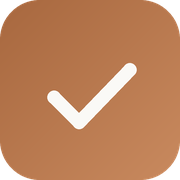
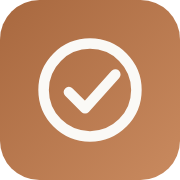
Renombrar la app a Tudu y actualizar el ícono (Check Ring)
- Nuevo ícono "Check Ring": anillo blanco + check dentro de un cuadrado
  con degradé terracota, reemplazando el check simple anterior
- Regenerados icons/icon-512.png, icon-192.png, icon-180.png e
  icon-maskable.png desde el nuevo icons/icon.svg
- Corregido el ícono nativo de Android, que nunca había sido
  personalizado y seguía siendo la plantilla genérica de Capacitor:
  ahora el adaptive icon (fondo con degradé + foreground por densidad)
  y los ic_launcher/ic_launcher_round legacy usan el mismo diseño
  Check Ring; se quitan los recursos de plantilla sin usar
- Nombre visible de la app actualizado a "Tudu" en el título del
  documento, el manifest de la PWA, capacitor.config.json, el nombre
  de la app en Android (strings.xml) y el README
- package.json renombrado a "tudu"; cache del service worker
  re-versionado para invalidar el ícono viejo cacheado
- Workflows de release: APK y release ahora se llaman tudu.apk / "Tudu"

Sin cambios en el applicationId de Android (com.pendientes.app), los
nombres de paquete/clases Java, ni las claves de almacenamiento
(pendientes.v1/v2) — se preservan intencionalmente para no romper la
ruta de actualización ni perder datos guardados de usuarios existentes.

Claude-Session: https://claude.ai/code/session_01NJcjxLo6XDBVtWR6sABLpL

diff --git a/index.html b/index.html
@@ -5,7 +5,7 @@
   <meta name="viewport" content="width=device-width, initial-scale=1.0, viewport-fit=cover">
   <meta name="theme-color" content="#a8683f">
   <meta name="description" content="Tus tareas pendientes ordenadas por vencimiento: hoy, semana, mes, listas de compras y avisos.">
-  <title>Pendientes</title>
+  <title>Tudu</title>
   <link rel="manifest" href="manifest.webmanifest">
   <link rel="icon" href="icons/icon.svg" type="image/svg+xml">
   <link rel="apple-touch-icon" href="icons/icon-180.png">

diff --git a/js/app.js b/js/app.js
@@ -1,4 +1,4 @@
-/* Pendientes — tareas con prioridad, vista Hoy, subtareas, etiquetas, búsqueda.
+/* Tudu — tareas con prioridad, vista Hoy, subtareas, etiquetas, búsqueda.
    Corre como web (PWA) y dentro del APK (Capacitor): en ese caso usa
    notificaciones nativas del sistema (disparan con la app cerrada) y
    sincroniza datos para el widget de pantalla de inicio. */

diff --git a/sw.js b/sw.js
@@ -1,5 +1,5 @@
-/* Service Worker — cache offline para Pendientes */
-const CACHE = 'pendientes-v1';
+/* Service Worker — cache offline para Tudu */
+const CACHE = 'tudu-v1';
 const ASSETS = [
   './',
   './index.html',

diff --git a/README.md b/README.md
@@ -1,4 +1,4 @@
-# Pendientes
+# Tudu
 
 App de tareas pendientes, minimalista y enfocada. Corre como **web (PWA)** y como
 **app Android (APK)** con notificaciones del sistema y widget en la pantalla de
@@ -55,7 +55,7 @@ Cada push a `Main` publica un **GitHub Release** con el APK ya adjunto:
 
 👉 **[github.com/FedeSierra-ux/Checklist/releases/latest](https://github.com/FedeSierra-ux/Checklist/releases/latest)**
 
-Descargá **`pendientes.apk`** al teléfono e instalalo (activá antes "Instalar
+Descargá **`tudu.apk`** al teléfono e instalalo (activá antes "Instalar
 apps de orígenes desconocidos"). Cada nueva versión queda ahí, sin depender de
 artefactos de Actions (que expiran a los 90 días).
 
@@ -65,7 +65,7 @@ los secrets del repo: `KEYSTORE_BASE64`, `KEYSTORE_PASSWORD`, `KEY_ALIAS`,
 `KEY_PASSWORD`).
 
 También podés compilar sin publicar release desde **Actions → "Compilar APK"**
-(artefacto `pendientes-apk` / `app-debug.apk`, para probar rápido).
+(artefacto `tudu-apk` / `app-debug.apk`, para probar rápido).
 
 #### Opción B — Compilar en tu máquina
 
